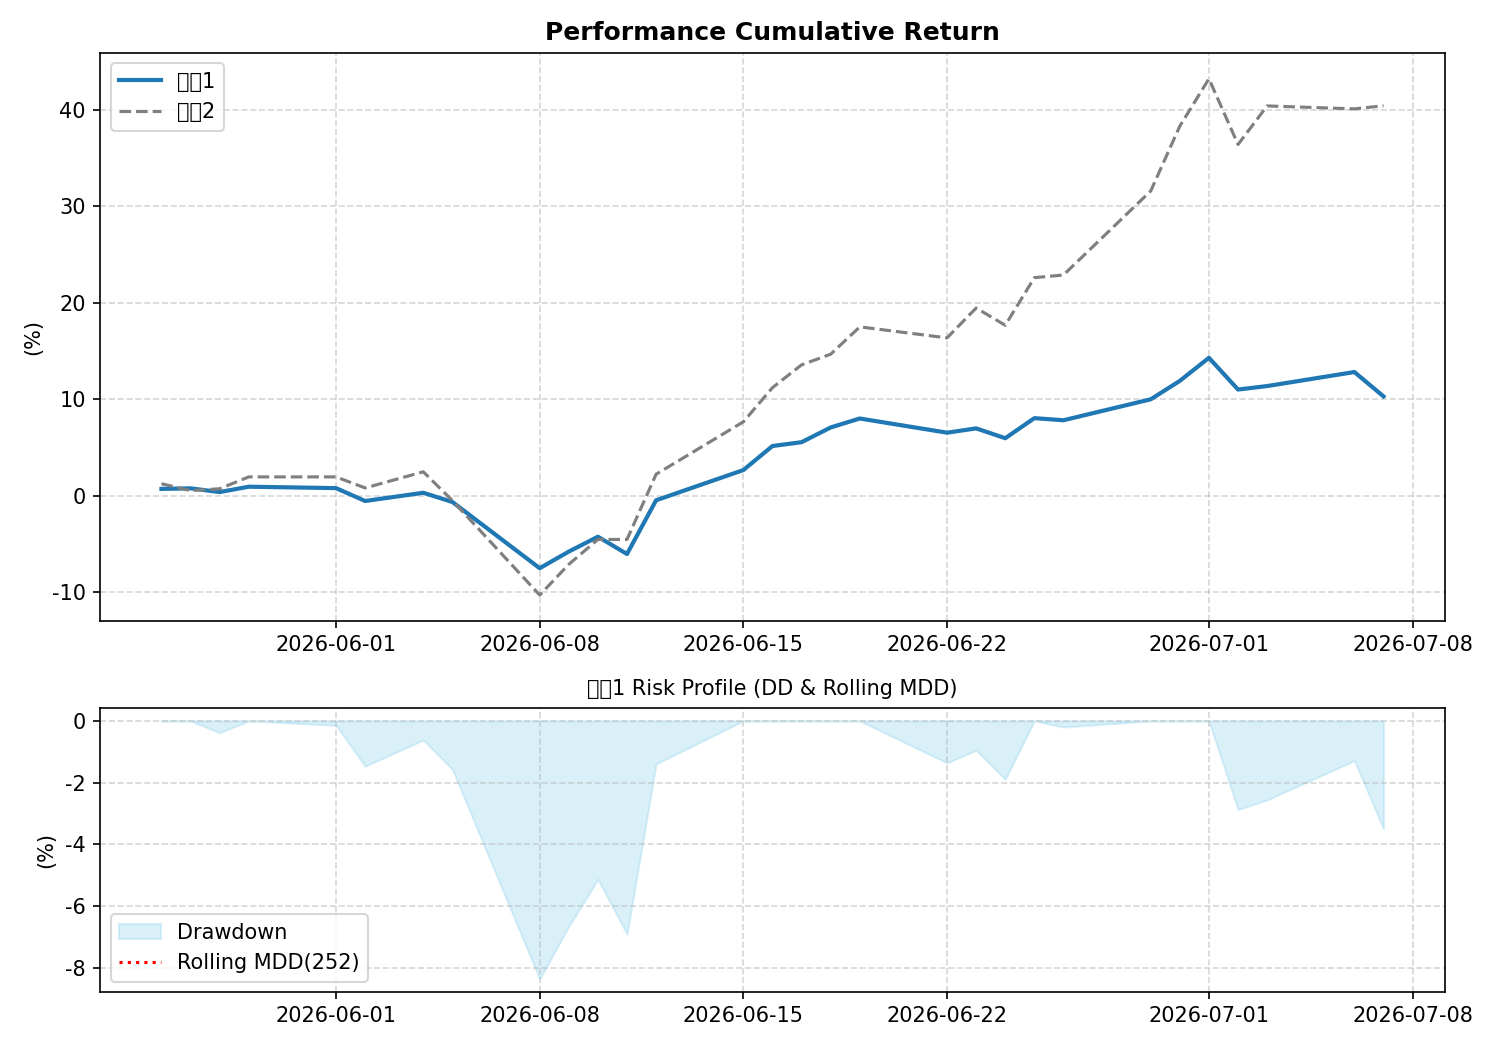
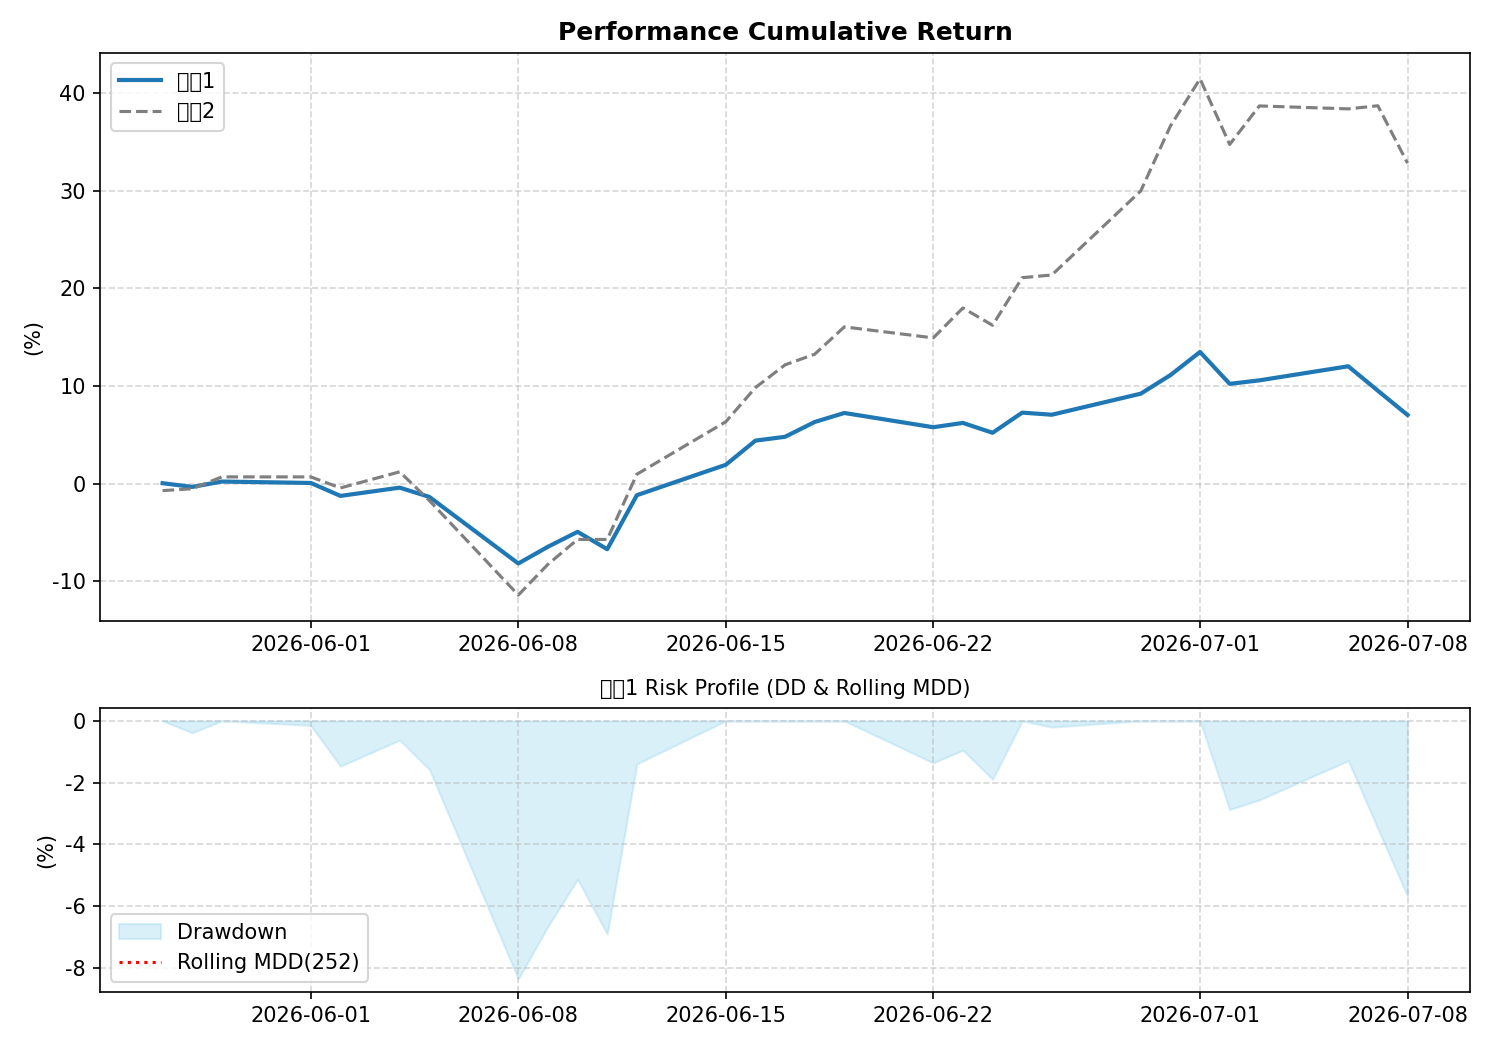
Auto commit

diff --git a/_pages/st_stock_future.md b/_pages/st_stock_future.md
@@ -1,7 +1,7 @@
 ---
 title: 전략테스트(주식선물)
 author: Best Investor
-date: 2026-07-07 16:42:06
+date: 2026-07-08 16:36:49
 category: Jekyll
 layout: post
 mermaid: true
@@ -15,13 +15,13 @@ parent: 포트폴리오
 
 | 지표 | 전략 1 (S1) | 전략 2 (S2) | 차이 (Diff) |
 | :--- | :---: | :---: | :---: |
-| **30일 수익률** | 10.3% | 40.43% | -30.13% |
-| **1년 수익률** | 189.54% | 373.81% | -184.27% |
-| **전체 수익률** | 769.84% | 1448.1% | -678.26% |
+| **30일 수익률** | 7.04% | 32.82% | -25.78% |
+| **1년 수익률** | 181.26% | 340.33% | -159.07% |
+| **전체 수익률** | 750.13% | 1382.45% | -632.32% |
 | **MDD (1Y)** | -9.56% | -12.67% | 3.11%p |
 | **MDD (ALL)** | **-10.63%** | **-16.06%** | 5.43%p |
-| **샤프 (1Y)** | 4.2 | 3.79 | 0.41 |
-| **샤프 (ALL)** | **2.92** | **2.49** | 0.43 |
+| **샤프 (1Y)** | 4.07 | 3.6 | 0.47 |
+| **샤프 (ALL)** | **2.89** | **2.45** | 0.44 |
 
 ## 📉 누적 성과 및 리스크 차트
 1. **최근 30일:** ![30일](/img_st/st2_stockfuture_cum_risk_30d.png)

diff --git a/_posts/signal/2026-04-01-signal.md b/_posts/signal/2026-04-01-signal.md
@@ -7,6 +7,18 @@ category: Jekyll
 ---
 ## 시그널  
 
+### 📊 2026-07-09 Morning Trading Signal
+
+- 📅 날짜: 2026-07-09  
+- ⏰ 시간: 08:45  
+- 🧾 종목: **-**  
+- ⏸️ 포지션: **No Trade**
+
+##### 🧭 Execution Plan
+- 🚀 진입: No Action
+- 🎯 청산: No Action
+
+
 ### 📊 2026-07-07 Afternoon Trading Signal
 
 - 📅 날짜: 2026-07-07  